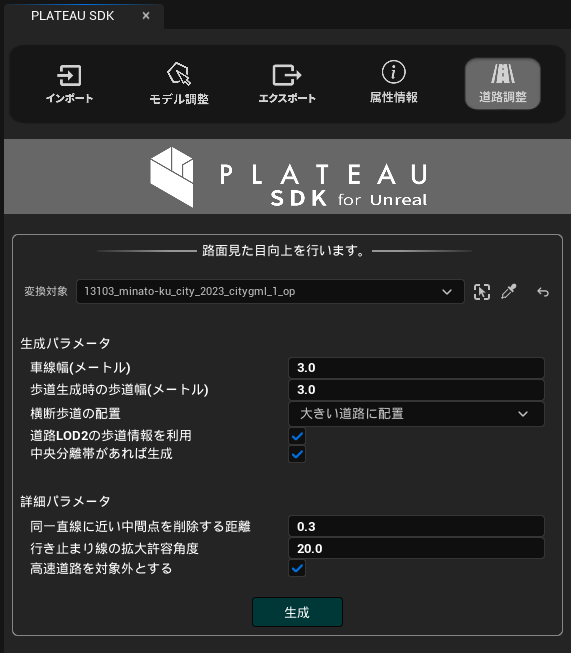
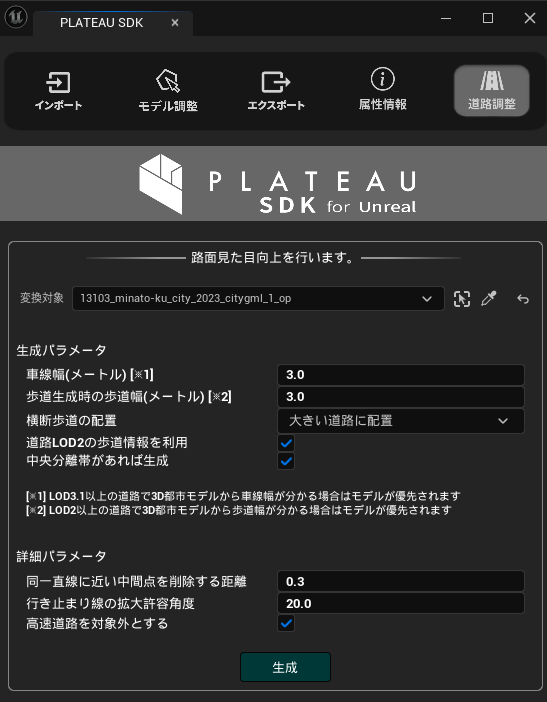
マニュアル更新

diff --git a/Documentation/manual/RoadNetwork.md b/Documentation/manual/RoadNetwork.md
@@ -52,8 +52,8 @@
 道路ネットワーク生成の設定項目は次のとおりです。
 
 - 生成パラメータ  
-  - `車線幅（メートル）`：3D都市モデルの道路幅と車線幅を基準に車線が生成されます。車線数や形状に影響します。  
-  - `歩道生成時の歩道幅`：歩道が生成可能な場合にこの幅を基準に歩道が生成されます。
+  - `車線幅（メートル）`：3D都市モデルの道路幅と車線幅を基準に車線が生成されます。車線数や形状に影響します。ただし、LOD3.1以上の道路で3D都市モデルから車線幅が分かる場合はモデルが優先されます。  
+  - `歩道生成時の歩道幅`：歩道が生成可能な場合にこの幅を基準に歩道が生成されます。ただし、歩道情報を利用する設定であり、LOD2以上の道路で3D都市モデルから歩道幅が分かる場合はモデルが優先されます。
   - `横断歩道の配置`：横断歩道を配置する条件を次から選びます。
     - `大きい道路に配置` : 道路の車線数が2以上、かつ長さが30m以上の道路に横断歩道を配置します。
     - `すべての交差点に配置` : すべての交差点に横断歩道を配置します。
